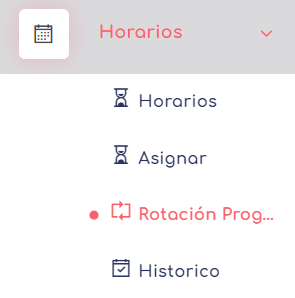
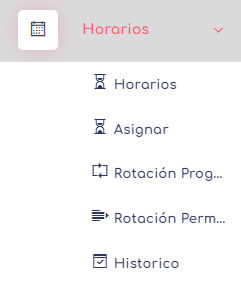
Add[Reportes] Cambios generados en los horarios a nivel general

diff --git a/1.AdmoEmpresas/Horarios/HPermuta.md b/1.AdmoEmpresas/Horarios/HPermuta.md
@@ -1,0 +1,56 @@
+# Horario Permuta
+
+Como bien se indico, este elemento se realizo para cubrir la necesidad de aquellas empresas o puestos de trabajon que salen por completo de la norma legal, con esto nos referimos a las empresas que los periodos de laburo difieren en periodos distinto a los semanales que se usan de manera convencional. El mejor ejemplo que se puede tomar aca en cuenta es la asignacion de horarios para el area minera.
+
+## Crear un horario ![add](../img/EmpresasCrear.png)
+
+Al ingresar en esta area se puede encontrar la siguiente pantalla:
+
+![crear](../img/PHorarioDetalles.png)
+
+al interactuar con esta pantalla podremos generar cualquier elemento y de este modo crear un horario completamente a conveniencia. Para ser mas especifico:
+
+1. en este apartado se agrega un nuevo dia completamente limpio para ser editado.
+2. podremos agregar un nombre al horario para asi poder identificarlo con facilidad, el nombre es completamente necesario para la creacion.
+3. la descripcion es completamente opcional.
+4. boton mediante el cual se crea el nuevo horario. es necesario que exista al menos 1 dia y tenga un nombre para poder crear un horario.
+5. periodo de trabajo recordar siempo que :
+    * __inj__ = inicio de jornada
+    * __fnj__ = fin de jornada
+    * __inc__ = inicio de colacion
+    * __fnc__ = fin de colacion
+para que un dia sea valido debe de tener al menos _inc_ y _fnc_ con valores validos, si no se toma como un dia de descanso.
+6. al seleccionar este checked, el sistema ignora cualquier configuracion y hace que este dia sea de descanso.
+7. copia el dia actual y lo agrega al final de la lista
+8. elimina el dia actual y se pierde cualquier configuracion echa.
+
+otro elemento a destacar es que si necesitamos cambiar el orden de nuestro dias simplemente podremos arrastrar el dia a su nueva ubicacion sin problemas.
+
+un detalle es que la asignacion de horario se hace tomando en cuenta siempre el orden donde el primer dia a asignar es que esta en la parte superior a nivel visual, y el ultima es el que se encuentra al fondo de la lista.
+
+
+## Otras Opciones ![Otras Opciones](../img/permutaOpciones.png)
+
+Para la opcion de eliminar ![delete](../img/detelebtn.png) es tan simple como dar click y nuestro elemento queda automaticamente fuera del sistema.
+
+en el caso de la edicion ![edit](../img/editbtn.png) es similar al crear con la diferencia de que al ingresar voy a poder obtener los datos del horario anterior.
+
+la asignacion por trabajador ![](../img/PHasignacion1.png) y la asignacion por grupos ![](../img/PHasignacion2.png) se ven esactamente igual con la diferencia de que una le asigna el horario a 1 solo trabajador y la grupal lo hace para todo un grupo seleccionado
+
+una ves ingresamos en los asignadores, obtenemos una vista similar a esta: 
+
+![asignar](../img/asignarVista.png)
+
+donde seleccionamos el horario por el nombre que se creo, luego el usuario o grupo de trabajadores y por ultimo el periodo de asignacion; y con estos simples pasos nuestro horario queda asignado. 
+
+### Notas a tomar en cuenta
+
+* el horario se asigna por periodos de manera automatica una ves sea el momento de empezar el horario.
+* el asignador solo toma como fin hasta llegar el ultimo dia de asignacion o simplemente hata que sea el ultimo dia del periodo
+* modificar un horario que ya fue asignado no modifica la asignacion.
+* solo se puede asignar a partir del dia actual.
+* el horaio parte a ser asignado a partir del dia de inicio.
+* el periodo de asignacion depende del numero de dias que tenga cada horario.
+
+
+[Voler](./index.md)

diff --git a/1.AdmoEmpresas/Horarios/index.md b/1.AdmoEmpresas/Horarios/index.md
@@ -1,6 +1,6 @@
 # Horarios
 
-En este apartado podremos administrar todo los correspondiente a nuestros horarios.
+En este apartado podremos administrar todo los correspondiente a nuestros horarios. Seria bueno entender los [Tipos](./tipos.md) de horarios que manejamos en el sistema; ya que estos pueden cubrir las necesidades necesarias para cada cliente.
 
 ![nana](../img/GHorario.png)
 
@@ -9,7 +9,7 @@ las opciones que tenemos presentes son:
 1. [Horarios:](./Horarios.md) Donde podremas crear, editar y eliminar horarios para nuestra empresa activa.
 2. [Asignar:](./Asignar.md) aca podremos asignar los horarios a cada uno de nuestro empleados.
 3. [Rotacion Programmada:](./rp.md) Aca programamos una rotacion de horarios que de manera automatica se estara asignando en el sistema.
-4. [Historico:](./Historico) en este apartado podremos ver el historico de asignacion de horarios para empleados de nuestra empresa activa.
-5. [Tipos](./tipos.md) en este apartado trabajamos los tipos de horarios que se trabajan en el sistema
+4. [Rotacion Permuta](HPermuta.md) esta seccion es para trabajar con los horarios que se asignar por bloque de dias/periodos ciendo el mejor ejemplo llamarlos horarios mineros.
+5. [Historico:](./Historico) en este apartado podremos ver el historico de asignacion de horarios para empleados de nuestra empresa activa.
 
  [volver](../1.AdmoEmpresas.MD)   

diff --git a/1.AdmoEmpresas/Horarios/tipos.md b/1.AdmoEmpresas/Horarios/tipos.md
@@ -27,4 +27,12 @@ En caso de ser necesario en el menu principal existe una opcion para intercalar 
 
 Este boton se encuentra en una columna entre las opciones de los horarios en la vista principal de la pagina.
 
+### Horario Minero
+
+Este horario esta definido para aquellas personas donde su jornada tiene inicio y fin disponibles por periodos. Donde por ejemplo un trabajador trabaja durante 15 dias consecutivos y luego descansa 5, completando asi periodo de 20 dias pero que es un poco mas complejo al querer organizanlo destro del periodo normal de trabjo definido por semanas.
+
+![permuta](../img/PHorario.png)
+
+la idea de este horario es poder definir los periodos indicando que se hara cada dia, asi de esta manera el sistema asigna para cada dia el horario segun su periodo de asignacion y genera los reportes y marcas basados en este horario.
+
 [volver](./index.md)

diff --git a/README.md b/README.md
@@ -39,8 +39,8 @@ acontinuacion se mostrara el manual de usuario dividido en 2 grandes partes
 1. [Secciones Comunes](./0.TodosLosUsuarios/0.TodosLosUsuarios.md): la informacion que todos los usuarios manejan en comun.
 2. informacion por usuario: la informacion o el flujo que es especifico por cada usuario; este a su ves tiene una clasificion por cada nivel de usuario que seria la siguiente:
 
-* Super Admin
-* Administrador de Sistema
+* Super Admin _[No Public]_
+* Administrador de Sistema _[No Public]_
 * [Administrador De Empresas](1.AdmoEmpresas/1.AdmoEmpresas.MD)
 * Fiscalizador DT
 * Empleados

diff --git a/1.AdmoEmpresas/Horarios/rp.md b/1.AdmoEmpresas/Horarios/rp.md
@@ -21,3 +21,6 @@ y por ultimo la  opcion de eliminar o [desactivar](./rp/Delete.md), Tener en  cu
 ![index](../img/rpIndex.png)
 
 sobre el listado, podremos resaltar que los datos mostrados son el  periodo  de  cambio, fecha en que inicio estos cambios; fecha en que acaban o N/A   si no se selecciona dicha fecha; La ultima ves que se realiza una actualizacion y por ultimo tenemos si este elemento esta o no activo.
+
+---
+[Volver](./index.md)

diff --git a/0.TodosLosUsuarios/Reportes/ReporteLau.MD b/0.TodosLosUsuarios/Reportes/ReporteLau.MD
@@ -5,9 +5,9 @@ Actualmente nuestro sistemo consta de 10 reportes, los primeros 4 son los que se
 - [Inicio y fin de jornada](./infnj.md)
 - [Colaciones](./col.md)
 - [Reporte General](./MM.MD)
-- [Atrasos](./atrasos.md)
-- [Inasistencia](./inasistencia.md)
-- [Tiempo Extra](./te.md)
+- [Atrasos](./atrasos.MD)
+- [Inasistencia](./inasistencia.MD)
+- [Tiempo Extra](./te.MD)
 
 ![Reportes Lau](../Reportes/img/ReportesLau.png)
 
